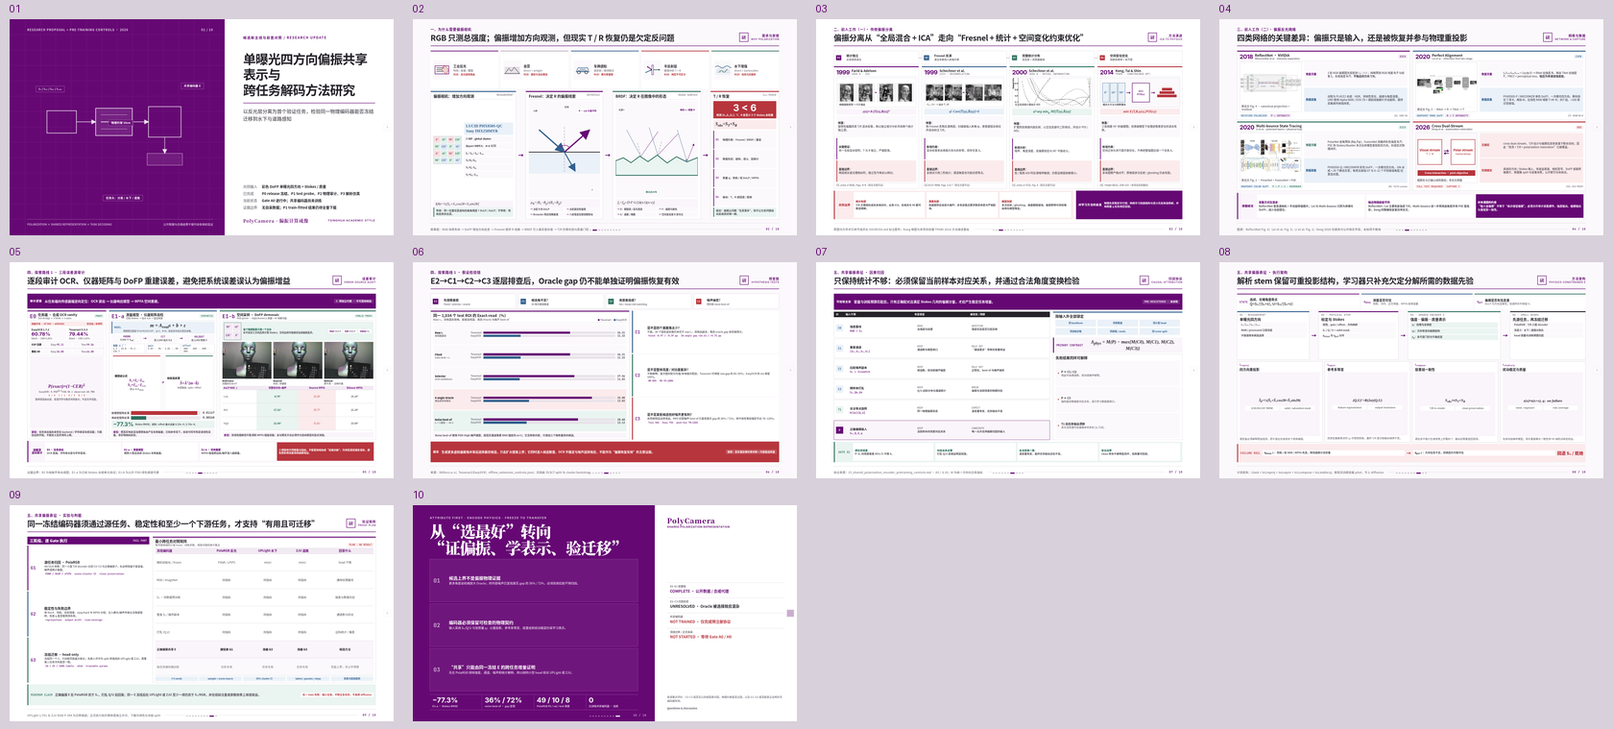
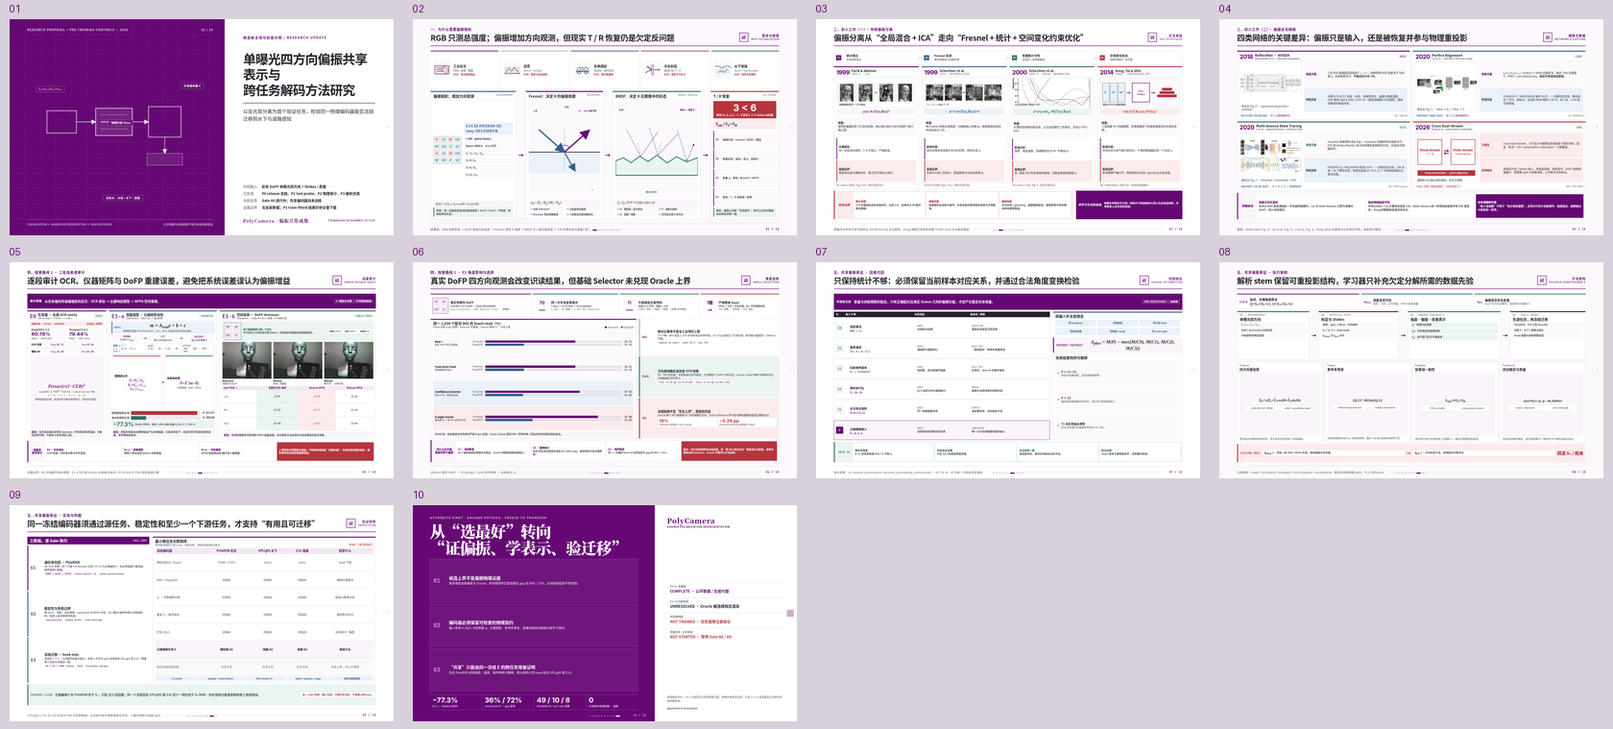
docs: clarify E2 DoFP selection evidence

Changed region(s): [[0.2476, 0.3636, 0.4952, 0.6364]]

diff --git a/demo/tsinghua-ppt/index.html b/demo/tsinghua-ppt/index.html
@@ -600,21 +600,42 @@
   .foundation-step{display:grid;align-content:center;padding:.42vh .44vw;background:#fff;font:650 clamp(10px,.65vw,12px)/1.22 var(--sans);color:var(--ink-soft)}.foundation-step b{display:block;margin-bottom:.16vh;color:var(--accent)}
   .foundation-verdict{display:grid;align-content:center;padding:.46vh .5vw;background:var(--danger);color:#fff;font:750 clamp(10px,.65vw,12px)/1.24 var(--sans)}
 
-  /* 06 · E2 / C1–C3 假设检验链 */
-  .hypothesis-chain-layout{height:100%;display:grid;grid-template-columns:1fr;grid-template-rows:7vh minmax(0,1fr) 9.5vh;gap:.85vh}
-  .hypothesis-axis{display:grid;grid-template-columns:repeat(4,1fr);gap:.55vw}
-  .hypothesis-node{display:grid;grid-template-columns:2.35em 1fr;gap:.48vw;align-items:center;padding:.55vh .55vw;border:1px solid var(--line);background:#fff}.hypothesis-node .id{display:grid;place-items:center;width:2.1em;aspect-ratio:1;background:var(--accent);color:#fff;font:800 clamp(10px,.67vw,13px)/1 var(--mono)}.hypothesis-node strong{font:750 clamp(12px,.78vw,15px)/1.15 var(--sans)}.hypothesis-node span{display:block;margin-top:.18vh;color:var(--muted);font:650 clamp(9px,.61vw,11px)/1.15 var(--sans)}
-  .hypothesis-node:nth-child(2) .id{background:var(--info)}.hypothesis-node:nth-child(3) .id{background:var(--success)}.hypothesis-node:nth-child(4) .id{background:var(--danger)}
-  .hypothesis-body{min-height:0;display:grid;grid-template-columns:57% 1fr;gap:.72vw}
-  .selection-chart{min-height:0;display:grid;grid-template-rows:auto auto 1fr auto;gap:.55vh;padding:.72vh .65vw;border:1px solid var(--line);border-top:4px solid var(--accent);background:#fff}
-  .selection-chart-head{display:flex;justify-content:space-between;gap:.7vw;align-items:end}.selection-chart-head h2{font:750 clamp(15px,.98vw,19px)/1.18 var(--sans)}.selection-chart-head p{margin-top:.2vh;color:var(--muted);font:600 clamp(10px,.67vw,13px)/1.2 var(--sans)}
+  /* 06 · E2 真实 DoFP 角度影响、严格 Exact 与 selector gap */
+  .e2-selection-layout{height:100%;display:grid;grid-template-columns:1fr;grid-template-rows:10.8vh minmax(0,1fr) 10.2vh;gap:.78vh}
+  .e2-protocol-grid{display:grid;grid-template-columns:1.18fr 1fr .92fr .92fr;gap:.5vw;min-height:0}
+  .e2-protocol-card{min-height:0;display:grid;grid-template-columns:auto 1fr;gap:.5vw;align-items:center;padding:.55vh .55vw;border-top:3px solid var(--accent);background:#fff}
+  .e2-protocol-card:nth-child(2){border-top-color:var(--info)}.e2-protocol-card:nth-child(3){border-top-color:var(--success)}.e2-protocol-card:nth-child(4){border-top-color:var(--danger)}
+  .e2-protocol-card .pid{color:var(--accent);font:800 clamp(10px,.66vw,13px)/1 var(--mono)}
+  .e2-protocol-card h2{font:750 clamp(12px,.78vw,15px)/1.15 var(--sans)}
+  .e2-protocol-card p{margin-top:.22vh;color:var(--ink-soft);font:600 clamp(9px,.61vw,11px)/1.22 var(--sans)}
+  .e2-protocol-card em{display:block;margin-top:.22vh;color:var(--muted);font:700 clamp(9px,.58vw,11px)/1.12 var(--mono);font-style:normal}
+  .e2-sensor{display:grid;grid-template-columns:repeat(2,2em);grid-template-rows:repeat(2,2em);border:1px solid var(--accent)}
+  .e2-sensor span{display:grid;place-items:center;border:1px solid #fff;background:var(--accent-soft);color:var(--accent);font:800 clamp(8px,.56vw,10px)/1 var(--mono)}
+  .e2-protocol-stat{display:grid;place-items:center;width:3.35em;aspect-ratio:1;background:var(--paper-soft);color:var(--accent);font:800 clamp(16px,1.08vw,21px)/.95 var(--sans-latin);text-align:center}
+  .e2-protocol-stat small{display:block;font-size:.45em;font-family:var(--sans)}
+
+  .e2-main{min-height:0;display:grid;grid-template-columns:59% 1fr;gap:.7vw}
+  .selection-chart{min-height:0;display:grid;grid-template-rows:auto auto minmax(0,1fr) auto;gap:.5vh;padding:.66vh .62vw;border:1px solid var(--line);border-top:4px solid var(--accent);background:#fff}
+  .selection-chart-head{display:flex;justify-content:space-between;gap:.7vw;align-items:end}.selection-chart-head h2{font:750 clamp(14px,.92vw,18px)/1.16 var(--sans)}.selection-chart-head p{margin-top:.18vh;color:var(--muted);font:600 clamp(10px,.65vw,12px)/1.18 var(--sans)}
   .selection-legend{display:flex;gap:.7vw;font:700 clamp(9px,.61vw,11px)/1 var(--sans);color:var(--muted)}.selection-legend span::before{content:"";display:inline-block;width:.75em;height:.75em;margin-right:.3em;background:var(--accent)}.selection-legend span.easy::before{background:var(--info)}
-  .selection-rows{display:grid;grid-template-rows:repeat(5,1fr);gap:.38vh;min-height:0}.selection-row{display:grid;grid-template-columns:8.8em 1fr;gap:.55vw;align-items:center;padding:.38vh .42vw;background:var(--paper-soft)}.selection-row.oracle{background:var(--danger-soft)}.selection-row.noise{background:var(--success-soft)}
-  .selection-name strong{display:block;font:800 clamp(10px,.67vw,13px)/1.1 var(--sans)}.selection-name span{display:block;margin-top:.15vh;color:var(--muted);font:650 clamp(9px,.59vw,11px)/1.1 var(--sans)}
-  .selection-pair{display:grid;gap:.28vh}.selection-line{display:grid;grid-template-columns:4.9em 1fr 3.6em;gap:.35vw;align-items:center;font:650 clamp(9px,.6vw,11px)/1 var(--sans);color:var(--muted)}.selection-track{height:1.05vh;min-height:8px;background:#e8e2e9}.selection-fill{display:block;height:100%;background:var(--accent)}.selection-fill.easy{background:var(--info)}.selection-value{text-align:right;color:var(--ink);font:800 clamp(10px,.65vw,12px)/1 var(--mono)}
-  .selection-note{padding:.48vh .45vw;background:var(--accent-pale);font:650 clamp(10px,.67vw,13px)/1.25 var(--sans);color:var(--ink-soft)}
-  .control-stack{min-height:0;display:grid;grid-template-rows:repeat(3,1fr);gap:.48vh}.control-card{display:grid;grid-template-columns:2.6em 1fr;gap:.55vw;align-items:center;padding:.55vh .55vw;border-left:4px solid var(--info);background:#fff}.control-card:nth-child(2){border-left-color:var(--success)}.control-card:nth-child(3){border-left-color:var(--danger)}.control-card .id{color:var(--accent);font:800 clamp(16px,1.08vw,21px)/1 var(--mono)}.control-card h3{font:750 clamp(12px,.8vw,15px)/1.15 var(--sans)}.control-card p{margin-top:.25vh;color:var(--ink-soft);font:550 clamp(10px,.67vw,13px)/1.28 var(--sans)}.control-card .evidence{display:flex;flex-wrap:wrap;gap:.28vw;margin-top:.35vh}.control-card .evidence span{padding:.25vh .3vw;background:var(--paper-soft);color:var(--accent);font:750 clamp(9px,.58vw,11px)/1 var(--mono)}
-  .hypothesis-verdict{display:grid;grid-template-columns:auto 1fr auto;gap:.7vw;align-items:center;padding:.65vh .68vw;background:var(--danger);color:#fff}.hypothesis-verdict strong{font:800 clamp(11px,.72vw,14px)/1.15 var(--mono);letter-spacing:.04em}.hypothesis-verdict span{font:700 clamp(12px,.8vw,15px)/1.28 var(--sans)}.hypothesis-verdict em{padding:.38vh .45vw;background:rgba(255,255,255,.14);font:750 clamp(10px,.65vw,12px)/1.15 var(--sans);font-style:normal}
+  .selection-rows{display:grid;grid-template-rows:repeat(4,1fr);gap:.38vh;min-height:0}.selection-row{display:grid;grid-template-columns:9.3em 1fr;gap:.55vw;align-items:center;padding:.42vh .44vw;background:var(--paper-soft)}.selection-row.selector{background:var(--info-soft)}.selection-row.oracle{background:var(--danger-soft)}
+  .selection-name strong{display:block;font:800 clamp(10px,.67vw,13px)/1.1 var(--sans)}.selection-name span{display:block;margin-top:.16vh;color:var(--muted);font:650 clamp(9px,.59vw,11px)/1.12 var(--sans)}
+  .selection-pair{display:grid;gap:.3vh}.selection-line{display:grid;grid-template-columns:4.9em 1fr 3.6em;gap:.35vw;align-items:center;font:650 clamp(9px,.6vw,11px)/1 var(--sans);color:var(--muted)}.selection-track{height:1.08vh;min-height:8px;background:#e8e2e9}.selection-fill{display:block;height:100%;background:var(--accent)}.selection-fill.easy{background:var(--info)}.selection-value{text-align:right;color:var(--ink);font:800 clamp(10px,.65vw,12px)/1 var(--mono)}
+  .selection-note{display:grid;grid-template-columns:auto 1fr;gap:.5vw;align-items:center;padding:.46vh .45vw;background:var(--accent-pale);font:650 clamp(10px,.65vw,12px)/1.22 var(--sans);color:var(--ink-soft)}.selection-note strong{color:var(--accent);font-family:var(--mono)}
+
+  .e2-reading-stack{min-height:0;display:grid;grid-template-rows:.9fr 1fr 1fr;gap:.46vh}
+  .e2-read-card{display:grid;grid-template-columns:3.5em 1fr;gap:.55vw;align-items:center;padding:.58vh .58vw;border-left:4px solid var(--line-strong);background:#fff}
+  .e2-read-card.paired{border-left-color:var(--success);background:var(--success-soft)}.e2-read-card.selector{border-left-color:var(--danger);background:var(--danger-soft)}
+  .e2-read-card .rid{color:var(--accent);font:800 clamp(11px,.72vw,14px)/1 var(--mono)}
+  .e2-read-card h3{font:750 clamp(12px,.79vw,15px)/1.14 var(--sans)}
+  .e2-read-card p{margin-top:.25vh;color:var(--ink-soft);font:550 clamp(10px,.66vw,12px)/1.26 var(--sans)}
+  .e2-read-card .read-metrics{display:flex;flex-wrap:wrap;gap:.28vw;margin-top:.38vh}.e2-read-card .read-metrics span{padding:.28vh .32vw;background:#fff;color:var(--accent);font:800 clamp(9px,.59vw,11px)/1 var(--mono)}
+  .selector-realization{display:grid;grid-template-columns:1fr 1fr;gap:.32vw;margin-top:.42vh}.selector-realization div{padding:.4vh .38vw;background:#fff}.selector-realization strong{display:block;color:var(--danger);font:800 clamp(17px,1.15vw,22px)/1 var(--sans-latin)}.selector-realization span{display:block;margin-top:.18vh;color:var(--muted);font:650 clamp(9px,.58vw,11px)/1.12 var(--sans)}
+
+  .e2-control-strip{display:grid;grid-template-columns:auto repeat(3,1fr) 1.3fr;gap:.42vw;align-items:stretch;padding:.58vh .6vw;background:var(--accent-pale);border-left:4px solid var(--accent)}
+  .e2-control-strip>strong{display:grid;place-items:center;padding:0 .3vw;color:var(--accent);font:800 clamp(10px,.68vw,13px)/1.15 var(--mono);text-align:center}
+  .e2-control{display:grid;align-content:center;padding:.42vh .44vw;background:#fff;color:var(--ink-soft);font:650 clamp(10px,.64vw,12px)/1.22 var(--sans)}.e2-control b{display:block;margin-bottom:.15vh;color:var(--accent)}
+  .e2-control-verdict{display:grid;align-content:center;padding:.46vh .5vw;background:var(--danger);color:#fff;font:750 clamp(10px,.65vw,12px)/1.24 var(--sans)}
 
   /* 03 · 系统、协议与 Gate */
   .protocol-layout{height:100%;display:grid;grid-template-rows:auto 1fr;gap:1.15vh}
@@ -1138,21 +1159,20 @@
 </section>
 
 <section class="slide soft" data-layout="THU14" data-animate="academic" data-slide-id="route1-hypothesis-chain">
-  <div class="thu-page"><header class="thu-header"><div><div class="thu-section">四、探索路线 1 · 假设检验链</div><h1 class="thu-title">E2→C1→C2→C3 逐层排查后，Oracle gap 仍不能单独证明偏振恢复有效</h1></div><div class="thu-brand"><div class="thu-brand-mark">研</div><div class="thu-brand-copy"><strong>排查链</strong><span>HYPOTHESIS TESTS</span></div></div></header>
-  <main class="thu-content tight"><div class="hypothesis-chain-layout quant-layout">
-    <div class="hypothesis-axis" data-anim><div class="hypothesis-node"><span class="id">E2</span><div><strong>先观察差距</strong><span>Fixed / selector / oracle</span></div></div><div class="hypothesis-node"><span class="id">C1</span><div><strong>候选角不足？</strong><span>36 角与候选数量</span></div></div><div class="hypothesis-node"><span class="id">C2</span><div><strong>亮度差造成？</strong><span>hm / mean-std matching</span></div></div><div class="hypothesis-node"><span class="id">C3</span><div><strong>噪声抽签？</strong><span>同内容 noise best-of</span></div></div></div>
-    <div class="hypothesis-body" data-anim>
-      <article class="selection-chart"><div class="selection-chart-head"><div><h2>同一 1,034 个 test ROI 的 Exact-read（%）</h2><p>Raw I₀、训练固定策略、部署选择器、事后 Oracle 与噪声 best-of</p></div><div class="selection-legend"><span>Tesseract</span><span class="easy">EasyOCR</span></div></div><div class="rule"></div><div class="selection-rows">
-        <div class="selection-row"><div class="selection-name"><strong>Raw I₀</strong><span>单视图基线</span></div><div class="selection-pair"><div class="selection-line"><span>Tesseract</span><span class="selection-track"><i class="selection-fill" style="width:65.78%"></i></span><span class="selection-value">26.31</span></div><div class="selection-line"><span>EasyOCR</span><span class="selection-track"><i class="selection-fill easy" style="width:28.30%"></i></span><span class="selection-value">11.32</span></div></div></div>
-        <div class="selection-row"><div class="selection-name"><strong>Fixed</strong><span>train-best = I₀</span></div><div class="selection-pair"><div class="selection-line"><span>Tesseract</span><span class="selection-track"><i class="selection-fill" style="width:65.78%"></i></span><span class="selection-value">26.31</span></div><div class="selection-line"><span>EasyOCR</span><span class="selection-track"><i class="selection-fill easy" style="width:28.30%"></i></span><span class="selection-value">11.32</span></div></div></div>
-        <div class="selection-row"><div class="selection-name"><strong>Selector</strong><span>OCR confidence</span></div><div class="selection-pair"><div class="selection-line"><span>Tesseract</span><span class="selection-track"><i class="selection-fill" style="width:68.90%"></i></span><span class="selection-value">27.56</span></div><div class="selection-line"><span>EasyOCR</span><span class="selection-track"><i class="selection-fill easy" style="width:27.58%"></i></span><span class="selection-value">11.03</span></div></div></div>
-        <div class="selection-row oracle"><div class="selection-name"><strong>4-angle Oracle</strong><span>事后逐样本最优</span></div><div class="selection-pair"><div class="selection-line"><span>Tesseract</span><span class="selection-track"><i class="selection-fill" style="width:82.20%"></i></span><span class="selection-value">32.88</span></div><div class="selection-line"><span>EasyOCR</span><span class="selection-track"><i class="selection-fill easy" style="width:34.58%"></i></span><span class="selection-value">13.83</span></div></div></div>
-        <div class="selection-row noise"><div class="selection-name"><strong>Noise best-of</strong><span>I₀ + 3 副本 · m=1</span></div><div class="selection-pair"><div class="selection-line"><span>Tesseract</span><span class="selection-track"><i class="selection-fill" style="width:71.70%"></i></span><span class="selection-value">28.68</span></div><div class="selection-line"><span>EasyOCR</span><span class="selection-track"><i class="selection-fill easy" style="width:32.83%"></i></span><span class="selection-value">13.13</span></div></div></div>
-      </div><div class="selection-note">Noise best-of 使用 PDD-High 噪声模型、按真实通道像素 RMS 锚定的 m=1；它没有新内容，只增加三个略有差异的候选。</div></article>
-      <aside class="control-stack"><article class="control-card"><span class="id">C1</span><div><h3>是不是四个离散角太少？</h3><p>不是。36 个固定虚拟角仍未优于 raw I₀；但候选越多，事后 oracle gap 会机械增大。</p><div class="evidence"><span>fixed −0.97 / −0.39 pp</span><span>36-angle gap +14.41 / +5.71 pp</span></div></div></article><article class="control-card"><span class="id">C2</span><div><h3>是不是整体亮度 / 对比度差异？</h3><p>不能解释。直方图匹配与均值/标准差匹配后，Tesseract 仍保留 raw gap 的 85–93%；EasyOCR 的 ms 保留 100%。</p><div class="evidence"><span>HM 85%</span><span>MS 93–100%</span></div></div></article><article class="control-card"><span class="id">C3</span><div><h3>是不是某些候选恰好噪声更有利？</h3><p>会贡献明显选择增益。RMS 匹配噪声 best-of 已复现真实 gap 的 36% / 72%；按可读性事后锚定可达 78–126%。</p><div class="evidence"><span>Tess 36%</span><span>Easy 72%</span><span>post-hoc 78–126%</span></div></div></article></aside>
+  <div class="thu-page"><header class="thu-header"><div><div class="thu-section">四、探索路线 1 · E2 角度影响与选择</div><h1 class="thu-title">真实 DoFP 四方向观测会改变识读结果，但基础 Selector 未兑现 Oracle 上界</h1></div><div class="thu-brand"><div class="thu-brand-mark">研</div><div class="thu-brand-copy"><strong>角度选择</strong><span>ANGLE SELECTION</span></div></div></header>
+  <main class="thu-content tight"><div class="e2-selection-layout quant-layout">
+    <div class="e2-protocol-grid" data-anim><article class="e2-protocol-card"><div class="e2-sensor" aria-label="DoFP四方向微偏振单元示意，绝对排列以相机SDK为准"><span>90°</span><span>45°</span><span>135°</span><span>0°</span></div><div><h2>真实单曝光 DoFP</h2><p>FLIR BFS-U3-51S5P · Sony IMX250MZR</p><em>micro-polarizer → SDK demosaic 8-bit · 非模拟</em></div></article><article class="e2-protocol-card"><div class="e2-protocol-stat">70<small>unique</small></div><div><h2>同一文字反复受高光</h2><p>7 docs × 10 GT ROI × 15 conditions</p><em>1,050 − 16 越界 = 1,034 ROI-condition</em></div></article><article class="e2-protocol-card"><div class="e2-protocol-stat">11<small>median</small></div><div><h2>不是固定长度喷码</h2><p>均值 22.3 字符；范围 1–376</p><em>FUNSD 字段 / 短语 / 段落 · 印刷+手写混合</em></div></article><article class="e2-protocol-card"><div class="e2-protocol-stat">1错<small>全错</small></div><div><h2>严格整串 Exact</h2><p>NFKC + 大写 + 空白折叠；任一字符错即失败</p><em>CER 同报 · 无字典 / OCV 修正</em></div></article></div>
+    <div class="e2-main" data-anim>
+      <article class="selection-chart"><div class="selection-chart-head"><div><h2>同一 1,034 个配对 ROI 的 Exact-read（%）</h2><p>Fixed 仅由 train 选择；Selector 可部署；Oracle 使用 GT，只是上界</p></div><div class="selection-legend"><span>Tesseract</span><span class="easy">EasyOCR</span></div></div><div class="rule"></div><div class="selection-rows">
+        <div class="selection-row"><div class="selection-name"><strong>Raw I₀</strong><span>真实 DoFP 单方向基线</span></div><div class="selection-pair"><div class="selection-line"><span>Tesseract</span><span class="selection-track"><i class="selection-fill" style="width:65.78%"></i></span><span class="selection-value">26.31</span></div><div class="selection-line"><span>EasyOCR</span><span class="selection-track"><i class="selection-fill easy" style="width:28.30%"></i></span><span class="selection-value">11.32</span></div></div></div>
+        <div class="selection-row"><div class="selection-name"><strong>Train-best Fixed</strong><span>训练集最终仍选 I₀</span></div><div class="selection-pair"><div class="selection-line"><span>Tesseract</span><span class="selection-track"><i class="selection-fill" style="width:65.78%"></i></span><span class="selection-value">26.31</span></div><div class="selection-line"><span>EasyOCR</span><span class="selection-track"><i class="selection-fill easy" style="width:28.30%"></i></span><span class="selection-value">11.32</span></div></div></div>
+        <div class="selection-row selector"><div class="selection-name"><strong>Confidence Selector</strong><span>四次 OCR，按置信度选</span></div><div class="selection-pair"><div class="selection-line"><span>Tesseract</span><span class="selection-track"><i class="selection-fill" style="width:68.90%"></i></span><span class="selection-value">27.56</span></div><div class="selection-line"><span>EasyOCR</span><span class="selection-track"><i class="selection-fill easy" style="width:27.58%"></i></span><span class="selection-value">11.03</span></div></div></div>
+        <div class="selection-row oracle"><div class="selection-name"><strong>4-angle Oracle</strong><span>事后看 GT，逐 ROI 选对的方向</span></div><div class="selection-pair"><div class="selection-line"><span>Tesseract</span><span class="selection-track"><i class="selection-fill" style="width:82.20%"></i></span><span class="selection-value">32.88</span></div><div class="selection-line"><span>EasyOCR</span><span class="selection-track"><i class="selection-fill easy" style="width:34.58%"></i></span><span class="selection-value">13.83</span></div></div></div>
+      </div><div class="selection-note"><strong>READING</strong><span>绝对值受长字符串与严格 Exact 压低；Fixed–Oracle 是同 ROI / 同字符串 / 同高光条件的配对相对变化。</span></div></article>
+      <aside class="e2-reading-stack"><article class="e2-read-card"><span class="rid">ABS</span><div><h3>绝对正确率不能当工业喷码上限</h3><p>70 个唯一 ROI 包含 1–376 字符的混合表单字段；GT crop 还绕过了文字检测。绝对值只描述这一 SHDocs 代理。</p><div class="read-metrics"><span>median 11 chars</span><span>mean 22.3</span><span>max 376</span></div></div></article><article class="e2-read-card paired"><span class="rid">PAIR</span><div><h3>方向观测确实会改变 OCR 结果</h3><p>同一 ROI 的内容、长度和高光条件固定，只切换四个 DoFP 方向分支；Oracle–Fixed 在两个后端均为正，文档聚类区间不跨 0。</p><div class="read-metrics"><span>Tess +6.58 pp [4.13,8.86]</span><span>Easy +2.51 pp [1.50,3.52]</span></div></div></article><article class="e2-read-card selector"><span class="rid">SEL</span><div><h3>关键困难不是“有无上界”，而是如何选</h3><p>Oracle 每个 ROI 都使用 GT 才知道最优方向；OCR confidence 并不是可靠的图像质量或正确性估计。</p><div class="selector-realization"><div><strong>19%</strong><span>Tesseract 仅兑现 1.25 / 6.58 pp</span></div><div><strong>−0.29 pp</strong><span>EasyOCR Selector 反而低于 Fixed</span></div></div></div></article></aside>
     </div>
-    <div class="hypothesis-verdict" data-anim><strong>结论</strong><span>生成更多虚拟偏振角并事后选择最优候选，只会扩大搜索上界；它同时混入候选数量、OCR 不稳定与噪声选择效应，不能作为“偏振恢复有效”的主要证据。</span><em>需要：真实重复曝光零对照 + 可部署选择器</em></div>
-  </div></main><footer class="thu-footer"><span>来源：SHDocs a–o；Tesseract/EasyOCR；offline_extension_controls.json；文档级 35/8/7 split 与 cluster bootstrap</span><span class="thu-footer-line"></span><span class="thu-page-no">06 / 10</span></footer></div>
+    <div class="e2-control-strip" data-anim><strong>为什么仍不能<br>直接归因于偏振</strong><div class="e2-control"><b>C1 · 候选数量</b>36 个虚拟角固定策略仍无增益，Oracle 却随候选数机械增大。</div><div class="e2-control"><b>C2 · 图像统计</b>亮度/对比度匹配后仍保留 85–100% gap，整体强度不是主要解释。</div><div class="e2-control"><b>C3 · 噪声抽签</b>同一 I₀ 的噪声 best-of 已复现真实 gap 的 36% / 72%。</div><div class="e2-control-verdict">结论：四方向观测影响识读结果，但“逐 ROI 最优方向”需要真正可部署、经零对照验证的 Selector；Oracle 不能作为方法结果。</div></div>
+  </div></main><footer class="thu-footer"><span>SHDocs 真实 DoFP · 70 strings / 1,034 条件样本 · 长度审计 v1</span><span class="thu-footer-line"></span><span class="thu-page-no">06 / 10</span></footer></div>
 </section>
 
 <section class="slide" data-layout="THU12" data-animate="academic" data-slide-id="polarization-attribution">
@@ -1207,7 +1227,7 @@ const SPEAKER_NOTES = [
   {id:'classical-reflection-separation',title:'传统偏振反光分离演进',section:'问题与文献',minutes:1.7,purpose:'说明传统路线如何从全局 ICA 逐步加入 Fresnel、统计分布和空间变化约束',talk:['Farid 与 Adelson 将正交检偏图写成同一 T/R 的不同线性混合，并以 ICA 假设统计独立源','Schechner 1999 用 Fresnel 把混合权重绑定到玻璃入射角，通过重建层去相关估计角度','JOSA A 2000 以互信息处理双表面内部反射，并分析噪声、角度误差和入射平面歧义','Kong 2014 把入射角和入射平面扩展为空间变化系数场，再做多尺度约束优化','共同边界是先验失配；学习器应补充局部结构和语义先验，而不是丢掉物理重组和质量门控'],transition:'传统方法明确了可辨识条件，下一页比较深度网络恢复到哪一层物理量',cue:'按顶部约束轴从左到右讲四篇工作，最后落到统计、测量和模型失配'},
   {id:'polarized-reflection-networks',title:'偏振反光网络与采集方案',section:'问题与文献',minutes:1.7,purpose:'同口径比较偏振输入、强度/偏振恢复层级与采集方案',talk:['ReflectNet 用旋转偏振片顺序采集三角度，最终恢复 RGB 强度 T/R，不恢复逐角偏振层','Lei 2020 使用单色 DoFP 单曝光四方向，先估计强度 R 再估计强度 T，并以黑布 M−R 方案采集真值','Multi-bounce 使用彩色 DoFP，逐角预测 polarized T/R，再以 Stokes/Mueller 多次反射模型重投影四方向','Deng 2026 只确认 cross dual-stream、T/R 与 polarization restoration 方向；输入、监督、相机和数据仍待全文核查','输入含偏振不等于输出保留物理；后续方法必须报告采集硬件、输出层级和重投影一致性'],transition:'文献说明“偏振网络”不能只看输入标签，下面回顾路线 1 的可测前提'},
   {id:'route1-foundation',title:'探索路线 1 · 三段误差源审计',section:'探索路线 1',minutes:1.3,purpose:'从任务读出、仪器响应和 DoFP 空间重建三段逆向定位偏振系统中的独立误差源',talk:['这不是把三项百分比相加的统一误差预算；E0、E1-a、E1-b 使用不同数据与指标，作用是逐段锁定混杂因素','E0 是电脑字体、GT ROI 与字符白名单下的软件 sanity：EasyOCR 的 CER 只有 4.20%，但字符串长度和易混字符会把整串 Exact 放大到 60.78%，它不是实拍喷码上限','E1-a 把测量写成 m=Areal·s+b+ε；用已知合成 Stokes 的前 2,500 组估计 A,b，再在留出的 2,500 组反演，RMSE 从理想矩阵的 0.01147 降到 0.00260','E1-b 模拟 2×2 MPFA 每像素只测一个方向，再比较完整四方向、最近邻和双线性；伪彩图中色相是 AoLP、饱和度是 DoLP、亮度是 S0','双线性减轻但没有消除空间插值误差，所以 OCR backend、标定矩阵和 demosaic 都必须冻结或进入后续消融，不能被模型增益吸收'],transition:'三段测量链误差被显式化后，下一页继续检验 E2 的 Oracle gap 是否只是候选数量、图像统计和噪声选择效应',cue:'按左到右讲三段误差源；E1-b 先指 2×2 排列，再读伪彩图图例和 40 场景均值表'},
-  {id:'route1-hypothesis-chain',title:'E2–C3 假设检验链',section:'探索路线 1',minutes:0.9,purpose:'从 fixed–oracle 差距出发，依次排查候选数量、图像统计和噪声选择效应',talk:['四方向 Oracle 高于固定 I0，但 confidence selector 只兑现很少，说明上界不等于部署收益','36 个固定虚拟角没有优于 raw I0，候选数增加却会机械放大 Oracle gap','强度匹配后 gap 仍在，所以整体亮度和对比度不是主要解释','同内容噪声 best-of 已复现真实 gap 的 36% 和 72%，证明没有新内容也会产生选择增益','因此不能用“生成更多角再选最好”证明偏振恢复有效'],transition:'既然候选选择不可归因，下一页改用只破坏一个因素的匹配干预来定义偏振证据',cue:'先读左侧五组柱状条，再按右侧 C1、C2、C3 逐层排除解释'},
+  {id:'route1-hypothesis-chain',title:'E2 · 真实 DoFP 角度影响与选择',section:'探索路线 1',minutes:1.3,purpose:'先交代 SHDocs 的真实 DoFP 来源、字符串长度与严格 Exact 规则，再区分角度相关的配对变化、Oracle 上界和可部署 Selector',talk:['E2 的 I0/I45/I90/I135 来自 FLIR Blackfly S 的 Sony IMX250MZR DoFP 单曝光；公开文件是作者/SDK 去马赛克后的 8-bit 方向 PNG，不是旋转偏振片顺序拍摄，也不是纯模拟','测试只有 70 个唯一 FUNSD 文字 ROI，在 15 种高光条件下展开并排除 16 个越界样本后得到 1,034 条；字符串中位数 11、均值 22.3、范围 1–376，包含字段、短语和长段落','Exact 在 NFKC、大写和空白折叠后仍要求整串完全正确，任一字符错就整段失败，因此绝对正确率不能解释为工业日期码上限','同一 ROI 的内容、长度和高光条件固定，只切换四方向观测；Oracle–Fixed 在 Tesseract / EasyOCR 上分别为 +6.58 / +2.51 pp 且文档聚类区间不跨 0，说明方向分支会改变 OCR 结果','但 Oracle 使用 GT 才能逐 ROI 选方向；confidence selector 对 Tesseract 只兑现 1.25 pp、约占 gap 的 19%，EasyOCR 还下降 0.29 pp。C1–C3 又说明候选数与噪声抽签会制造上界，所以 Selector 必须可部署并经过零对照验证'],transition:'观察到方向相关变化但现有 Selector 失败后，下一页改用只破坏一个因素的匹配干预，定义什么结果才允许归因于真实偏振信息',cue:'先讲顶部四个协议卡，再读 Fixed–Oracle 配对变化，最后指向右下角 19% 与 −0.29 pp'},
   {id:'polarization-attribution',title:'真实偏振的因果归因协议',section:'共享偏振表征',minutes:1.2,purpose:'用匹配输入干预区分当前样本偏振信息与通道数、噪声、统计偏差和角度坐标系',talk:['C0 到 C3 不是随意喂错误图片，而是依次保持强度、通道数、噪声或 Q/U 边际分布，只破坏一个待验证因素','最关键的是跨样本打乱 Q/U：总体数值统计仍在，但与当前场景的物理对应关系被破坏','T1 是合法零点旋转，不应导致任务输出变化；它与非物理通道交换必须区分','所有输入使用同 backbone、参数、head、训练步数、增强、seeds 和 scene split','只有正确偏振优于全部对照、打乱后回落且合法旋转通过，才允许把增量归因于偏振'],transition:'归因协议说明要比较什么，下一页说明编码器内部必须保留什么物理结构',cue:'先讲 C3，再回看 C0–C2，最后读底部 Gate G1'},
   {id:'physics-constrained-encoder',title:'物理约束共享编码器',section:'共享偏振表征',minutes:1.2,purpose:'定义解析 stem、双质量变量、共享表示和四类可验证约束',talk:['主输入使用 S0、Q、U，避免直接输入低 DoLP 区不稳定的裸 AoLP','q_meas 表示测量是否可信，q_pol 表示偏振是否有信息量；高 DoLP 但饱和与低 DoLP 但强度可信必须区分','编码器分出强度表示 zI、方向等变偏振表示 zP 和质量门控 zq，再连接小型任务头','重投影约束防止网络丢掉四方向物理，参考系等变约束角度几何，层重组约束源任务解释观测','扰动稳定先用冻结噪声模型；真实重复曝光只能在 H0 相机试采后验证，当前不冒充已有结果'],transition:'有了方法结构后，下一页给出怎样训练、怎样冻结、什么结果才算有用'},
   {id:'encoder-proof-plan',title:'共享编码器实验与通过判据',section:'共享偏振表征',minutes:1.2,purpose:'用 G1 源任务归因、G2 稳定性和 G3 冻结迁移证明编码器有用',talk:['G1 在 PolaRGB 49/10/8 场景划分上，用同一小型 decoder 比较全部输入对照，并报告场景聚类区间与 clean preservation','G2 按 DoLP、饱和、反射强度、easy/hard 和 MPFA 分组，检验重投影、输出漂移和风险覆盖关系','G3 冻结同一个编码器，只训练相同容量分割头，并比较 10%、25%、100% 标签量','共享的核心证据是 UPLight 或 ZJU 至少一个任务优于 S0/RGB；偏振的核心证据是打乱 Q/U 后回落','UPLight 与 ZJU 仍需先核查独立许可和冻结 split；任一 Gate 失败就缩小主张，不转向联合多任务或 diffusion'],transition:'最后用已完成、未完成和唯一下一项证据收束',cue:'从左侧 G1→G3 讲执行顺序，再读右侧矩阵和底部 minimum claim'},

diff --git a/industrial_reading/scripts/audit_shdocs_e2_strings.py b/industrial_reading/scripts/audit_shdocs_e2_strings.py
@@ -1,0 +1,188 @@
+#!/usr/bin/env python3
+"""Audit SHDocs E2 string lengths under the frozen ROI sampling protocol."""
+
+from __future__ import annotations
+
+import argparse
+from collections import Counter
+import hashlib
+import json
+from pathlib import Path
+import re
+import statistics
+import unicodedata
+import zipfile
+
+
+def sha256(path: Path) -> str:
+    digest = hashlib.sha256()
+    with Path(path).open("rb") as handle:
+        for block in iter(lambda: handle.read(1024 * 1024), b""):
+            digest.update(block)
+    return digest.hexdigest()
+
+
+def normalize_text(text: object) -> str:
+    value = unicodedata.normalize("NFKC", str(text)).upper()
+    return re.sub(r"\s+", " ", value).strip()
+
+
+def summarize_lengths(values: list[int]) -> dict[str, float | int]:
+    quartiles = statistics.quantiles(values, n=4, method="inclusive")
+    ordered = sorted(values)
+    return {
+        "min": min(values),
+        "q1": float(quartiles[0]),
+        "median": float(statistics.median(values)),
+        "mean": float(statistics.mean(values)),
+        "q3": float(quartiles[2]),
+        "p90": int(ordered[round(0.9 * (len(ordered) - 1))]),
+        "max": max(values),
+    }
+
+
+def length_bin(length: int) -> str:
+    if length <= 5:
+        return "1-5"
+    if length <= 10:
+        return "6-10"
+    if length <= 20:
+        return "11-20"
+    if length <= 40:
+        return "21-40"
+    return "41+"
+
+
+def main() -> None:
+    parser = argparse.ArgumentParser(description=__doc__)
+    parser.add_argument("--archive", type=Path, required=True)
+    parser.add_argument("--split", type=Path, required=True)
+    parser.add_argument("--exclusions", type=Path, required=True)
+    parser.add_argument("--output", type=Path, required=True)
+    parser.add_argument("--archive-sha256", default="")
+    parser.add_argument("--seed", type=int, default=20261102)
+    parser.add_argument("--regions-per-document", type=int, default=10)
+    parser.add_argument("--conditions", default="a,b,c,d,e,f,g,h,i,j,k,l,m,n,o")
+    args = parser.parse_args()
+
+    split_payload = json.loads(args.split.read_text(encoding="utf-8"))
+    assignments = {str(key): str(value) for key, value in split_payload["assignments"].items()}
+    exclusions_payload = json.loads(args.exclusions.read_text(encoding="utf-8"))
+    exclusions = {str(value) for value in exclusions_payload.get("sample_ids", [])}
+    conditions = tuple(value.strip() for value in args.conditions.split(",") if value.strip())
+
+    annotations: dict[str, dict[str, object]] = {}
+    with zipfile.ZipFile(args.archive) as archive:
+        for name in archive.namelist():
+            if "/annotations/" not in name or not name.endswith(".json"):
+                continue
+            document = Path(name).stem
+            if document not in assignments:
+                continue
+            payload = json.loads(archive.read(name))
+            if document in annotations and annotations[document] != payload:
+                raise ValueError(f"Conflicting annotations for {document}")
+            annotations[document] = payload
+    if set(annotations) != set(assignments):
+        missing = sorted(set(assignments) - set(annotations))
+        raise ValueError(f"Missing annotations for frozen documents: {missing}")
+
+    selected: list[dict[str, object]] = []
+    for document, payload in annotations.items():
+        form = payload.get("form")
+        if not isinstance(form, list):
+            raise ValueError(f"Annotation has no form list: {document}")
+        eligible: list[int] = []
+        for index, element in enumerate(form):
+            if not isinstance(element, dict):
+                continue
+            text = str(element.get("text", ""))
+            box = element.get("box")
+            if not text or not isinstance(box, list) or len(box) != 4:
+                continue
+            x0, y0, x1, y1 = (int(value) for value in box)
+            if x1 > x0 and y1 > y0:
+                eligible.append(index)
+        ranked = sorted(
+            eligible,
+            key=lambda index: hashlib.sha256(
+                f"{args.seed}:{document}:{index}".encode()
+            ).hexdigest(),
+        )[: args.regions_per_document]
+        for index in ranked:
+            element = form[index]
+            assert isinstance(element, dict)
+            selected.append(
+                {
+                    "document": document,
+                    "region_index": index,
+                    "split": assignments[document],
+                    "text": normalize_text(element["text"]),
+                    "label": str(element.get("label", "unknown")),
+                }
+            )
+
+    test_unique = [row for row in selected if row["split"] == "test"]
+    expanded_test: list[dict[str, object]] = []
+    for row in test_unique:
+        for condition in conditions:
+            sample_id = f"{row['document']}_{condition}_{row['region_index']}"
+            if sample_id not in exclusions:
+                expanded_test.append({**row, "condition": condition, "sample_id": sample_id})
+
+    unique_lengths = [len(str(row["text"])) for row in test_unique]
+    expanded_lengths = [len(str(row["text"])) for row in expanded_test]
+    payload = {
+        "experiment": "shdocs-e2-string-length-audit-v1",
+        "date": "2026-11-11",
+        "proxy_only": True,
+        "claim_boundary": (
+            "This audits the frozen SHDocs/FUNSD GT-ROI strings used by E2. "
+            "They are mixed form fields, phrases and paragraphs, not industrial spray codes."
+        ),
+        "dataset": {
+            "archive_bytes": args.archive.stat().st_size,
+            "archive_sha256": args.archive_sha256 or sha256(args.archive),
+            "documents": len(annotations),
+        },
+        "protocol": {
+            "split_version": split_payload.get("split_version", "unknown"),
+            "split_assignment_sha256": split_payload.get("assignment_sha256", ""),
+            "split_file_sha256": sha256(args.split),
+            "exclusions_file_sha256": sha256(args.exclusions),
+            "seed": args.seed,
+            "regions_per_document": args.regions_per_document,
+            "conditions": list(conditions),
+            "normalization": "NFKC + uppercase + collapsed whitespace",
+        },
+        "test_unique_strings": {
+            "documents": len({str(row["document"]) for row in test_unique}),
+            "regions": len(test_unique),
+            "character_length": summarize_lengths(unique_lengths),
+            "length_bins": dict(sorted(Counter(length_bin(value) for value in unique_lengths).items())),
+            "annotation_labels": dict(
+                sorted(Counter(str(row["label"]) for row in test_unique).items())
+            ),
+        },
+        "test_roi_conditions": {
+            "before_exclusions": len(test_unique) * len(conditions),
+            "excluded": len(test_unique) * len(conditions) - len(expanded_test),
+            "evaluated": len(expanded_test),
+            "character_length": summarize_lengths(expanded_lengths),
+        },
+        "interpretation": [
+            "The page-6 absolute exact-read rate combines strings from 1 to 376 characters; one normalized character error fails the whole ROI.",
+            "The four analyzer views remain paired on the same ROI and string, so relative fixed-versus-oracle comparisons hold text length constant within each sample.",
+            "Absolute exact-read must not be interpreted as an industrial date/lot-code accuracy ceiling.",
+        ],
+        "source_sha256": {
+            str(Path(__file__).relative_to(Path.cwd())): sha256(Path(__file__)),
+        },
+    }
+    args.output.parent.mkdir(parents=True, exist_ok=True)
+    args.output.write_text(json.dumps(payload, indent=2, sort_keys=True) + "\n", encoding="utf-8")
+    print(json.dumps(payload, indent=2, sort_keys=True))
+
+
+if __name__ == "__main__":
+    main()

diff --git a/demo/tsinghua-ppt/images/SOURCES.md b/demo/tsinghua-ppt/images/SOURCES.md
@@ -51,7 +51,7 @@ BRDF 图均为 HTML/CSS/无文字 SVG 的本项目原创机制示意，不是相
 | 3 | Farid–Schechner–Kong 的传统偏振 T/R 分离演进、共同边界及对学习先验的启发 | 上述三张论文图节选；Farid & Adelson, JOSA A 1999；Schechner et al., ICCV 1999 / JOSA A 2000；Kong et al., TPAMI 2014；方法口径同步见 `polar_representation/LITERATURE.md` |
 | 4 | ReflectNet、Lei 2020、Multi-bounce 与 Deng 2026 的偏振/强度恢复层级及采集方案 | 上述三张论文架构图；对应 ECCV 2018、CVPR 2020、ECCV 2020 原文；Deng et al. 2026 仅使用出版元数据与已核实方向，具体输入、监督和采集字段按“待全文核查”处理；完整审计见 `polar_representation/LITERATURE.md` |
 | 5 | 从任务读出、仪器响应到 DoFP 重建的三段误差源审计：E0 合成 OCR sanity、E1-a 已知 Stokes 仪器矩阵自检、E1-b PDD MPFA/AoLP 误差 | `e0_clean_code_sanity.json`、`e1_synthetic_instrument_recovery.json`、`e1_pdd_simple_baselines.json`；三段使用不同数据与指标，页面明确禁止直接相加为统一“误差份额” |
-| 6 | E2、C1、C2、C3 假设检验链及 Raw I₀ / Fixed / Selector / Oracle / Noise best-of 柱状对照 | `e0_e2_shdocs_easyocr_scale4.json`、`e0_e2_shdocs_tesseract_scale4.json`、`industrial_reading/evidence/offline_extension_controls.json`；Noise best-of 使用 m=1 像素 RMS 锚点 |
+| 6 | SHDocs 真实 DoFP 来源、70 个唯一文字 ROI × 15 高光条件、字符串长度与严格 Exact 判据；Raw I₀ / Fixed / Confidence Selector / Oracle 的配对比较，以及 C1–C3 选择效应对照 | 相机为 FLIR BFS-U3-51S5P / Sony IMX250MZR DoFP；公开方向图为作者/SDK 去马赛克后的 8-bit PNG；数字来自 `e0_e2_shdocs_easyocr_scale4.json`、`e0_e2_shdocs_tesseract_scale4.json`、`offline_extension_controls.json` 和新增 `shdocs_e2_string_length_audit_v1.json`；E2 四方向为真实采集，36 虚拟角与 noise best-of 为软件对照 |
 | 7 | C0–C3 匹配输入干预、合法角度零点旋转与偏振归因 Gate G1 | `15_shared_polarization_encoder_pretraining_controls.md` A5、§10.5；该页为预注册协议，没有训练结果 |
 | 8 | `S₀/Q/U` 解析 stem、`q_meas/q_pol`、共享编码器与重投影/等变/重组/稳定约束 | `15_shared_polarization_encoder_pretraining_controls.md` §10.2–10.3；`05_polarization_camera_physical_models.md` |
 | 9 | PolaRGB 源任务、扰动稳定和 UPLight/ZJU 冻结迁移三阶段实验矩阵 | `polargb_scene_split_v1.json`；`15_shared_polarization_encoder_pretraining_controls.md` §6、§10.4–10.5；UPLight/ZJU 许可与 split 仍待执行前核查 |

diff --git a/industrial_reading/README.md b/industrial_reading/README.md
@@ -3,7 +3,7 @@
 变化反射条件下工业标识可靠识读的离线前置实验目录。当前阶段只运行公开数据
 代理实验，不把公开文档结果表述为工业喷码实物结论。
 
-## 当前结果（2026-11-09 更新；其余条目为 2026-11-03 首轮）
+## 当前结果（2026-11-11 更新；其余条目为 2026-11-03/09）
 
 - 2026-11-09 增补三项不需要硬件的对照（密集固定虚拟角、强度匹配、噪声零对照），详见
   `14_offline_gate_p_results.md` 第 8 节与 `evidence/offline_extension_controls.json`：
@@ -16,6 +16,9 @@
   `15.14° / 21.24° / 23.69°`（低/中/高噪声）；
 - SHDocs processed 50 文档/800 captures 已通过 SHA-256、全 CRC 与偏振一致性审计；
   平均 pair residual `0.02361`、平均 DoLP `0.03387`；
+- 冻结 E2 字符串审计确认：测试为 7 文档、70 个唯一 GT ROI，在 15 个高光条件下展开为
+  1,034 条；规范化字符串中位数 11、均值 22.3、范围 1–376，因此 absolute exact 不能解释为
+  工业日期/批次码上限，详见 `evidence/shdocs_e2_string_length_audit_v1.json`；
 - 清晰合成 E0 中，Tesseract 对固定 `EXP YYYY-MM-DD` 达到 `99.56%` exact，
   但随机字母数字 `SN` 仅 `64%`，证明主字符集/格式是硬件前置决策；
 - SHDocs EasyOCR 4× 代理中，a–o 测试的 train-best fixed 为 `11.32%`，四方向
@@ -107,6 +110,14 @@ python industrial_reading/scripts/summarize_ocr_records.py \
   --records /path/to/ocr_records.jsonl \
   --conditions a,b,c,d,e,f,g,h,i,j,k,l,m,n,o \
   --output /path/to/e2_summary.json
+
+# 4. 审计 E2 实际使用字符串的长度与重复条件数
+python industrial_reading/scripts/audit_shdocs_e2_strings.py \
+  --archive /path/to/shdocs_processed.zip \
+  --archive-sha256 49457a4afae50fc750328399af708c12570a08c613b1ccfe7f552c6f8acb05c7 \
+  --split industrial_reading/evidence/shdocs_document_split_v1.json \
+  --exclusions industrial_reading/evidence/shdocs_excluded_rois_v1.json \
+  --output industrial_reading/evidence/shdocs_e2_string_length_audit_v1.json
 ```
 
 `camera` 清晰条件和 `a–o` 高光条件必须分开汇总；E2 的 train-best 和 oracle 不得
